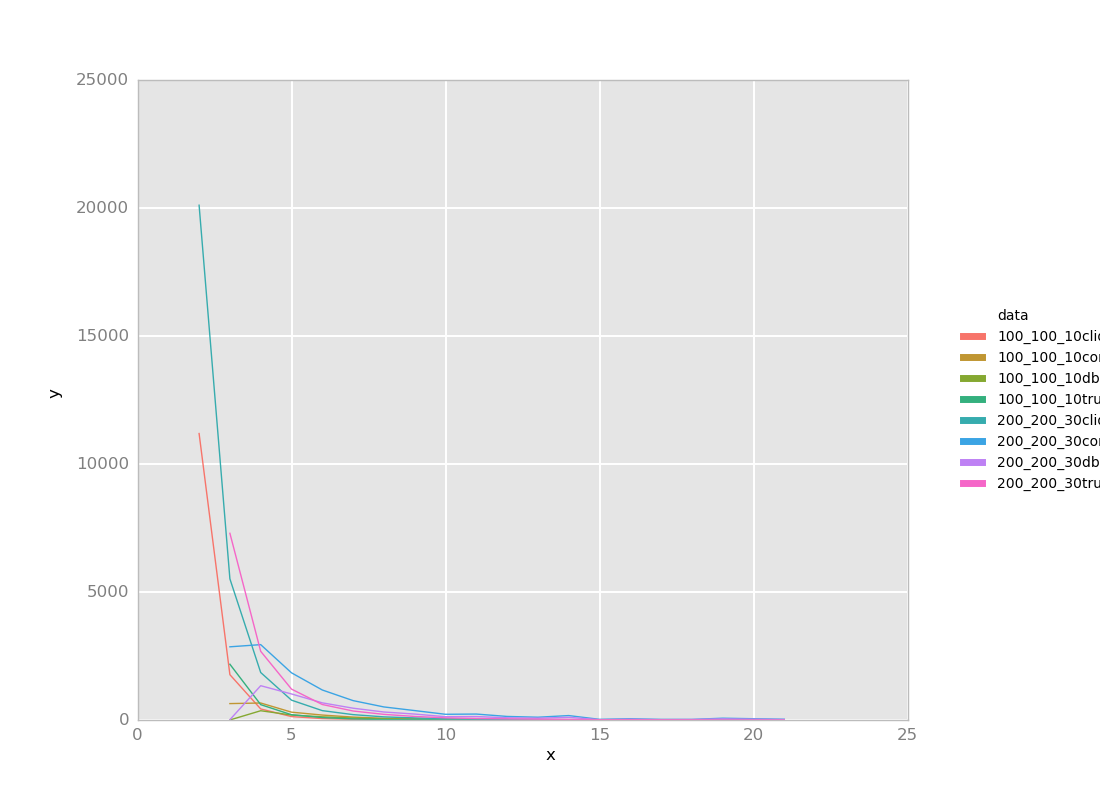
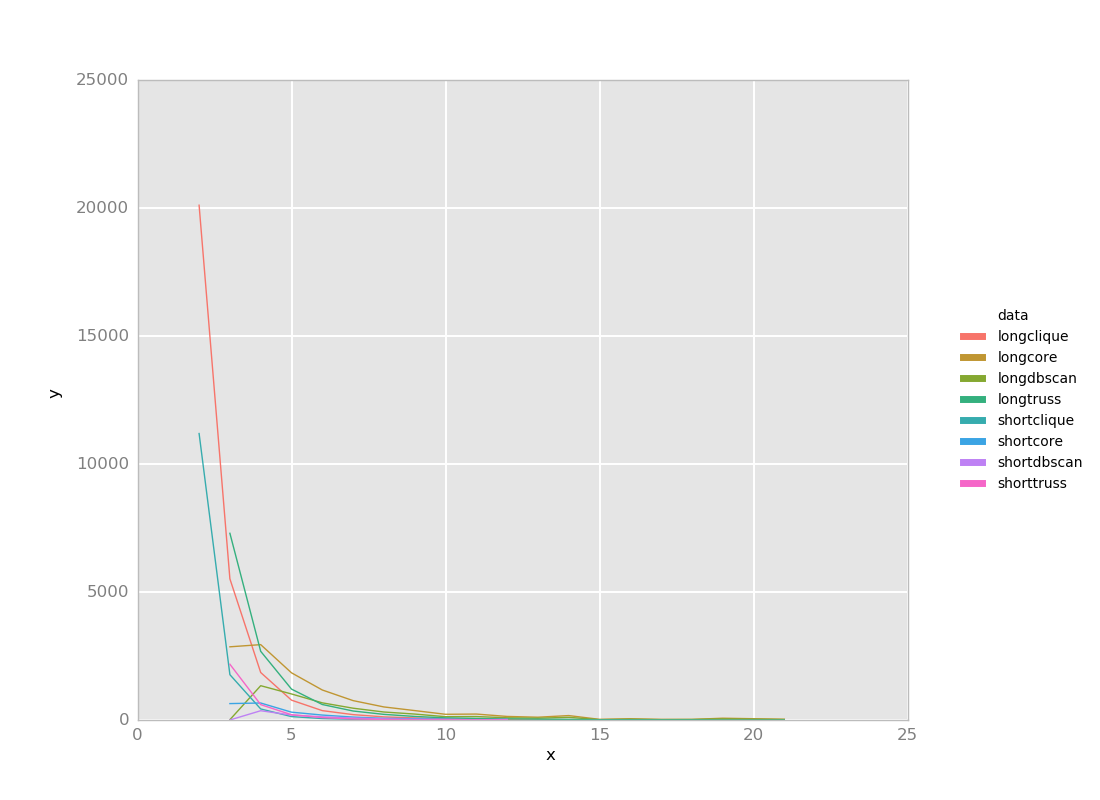
sth

diff --git a/scripts/data_analysis.py b/scripts/data_analysis.py
@@ -43,7 +43,7 @@ class JsonStats:
             data = json.load(data_file)
         
         name_items       = basename(file).replace(".json", "").split("_")
-        self.name        = name_items[2]+"_"+name_items[3]+"_"+name_items[4]
+        self.name        = "long" if name_items[2] == "200" else "short" 
         self.numV        = data["content"]["graph property"]["numV"] 
         self.numE        = data["content"]["graph property"]["numE"]
         self.numCC       = data["content"]["graph property"]["numCC"] 
@@ -179,7 +179,7 @@ class JsonStatsCollections:
             elif is_freq == True:
                 d = self.transformDataGgPlot(c, d)
         f = DataFrame(d)
-        p = ggplot(aes(x='x', y='y', colour='data'), data = f) + geom_line() + theme(legend_position="bottom");
+        p = ggplot(aes(x='x', y='y', colour='data'), data = f) + geom_line() + theme(legend_position="left");
         p.save(ofname)
 
 
